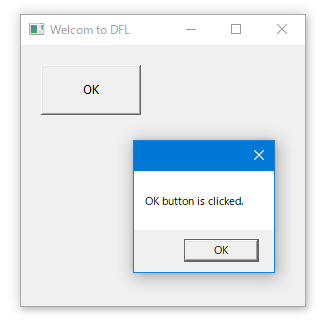
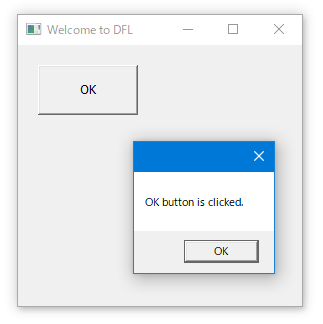
typo

diff --git a/README.md b/README.md
@@ -9,7 +9,7 @@ import dfl;
 void main()
 {
 	Form form = new Form;
-	form.text = "Welcom to DFL";
+	form.text = "Welcome to DFL";
 	form.size = Size(300, 300);
 
 	Button button = new Button;
